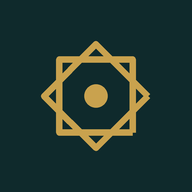
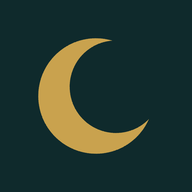
Sürüm 30: amblem hilal-ay oldu

Changed region(s): [[0.1875, 0.1875, 0.7812, 0.8125], [0.4375, 0.4375, 0.5625, 0.5625]]

diff --git a/index.html b/index.html
@@ -13,7 +13,7 @@
 <link rel="apple-touch-icon" href="simge/apple-touch-icon.png">
 <style>:root{padding-top:env(safe-area-inset-top,0px);padding-bottom:env(safe-area-inset-bottom,0px)}body{margin:0}[hidden]{display:none!important}</style>
 <title>Günün Ayeti</title>
-<!-- sürüm 29 -->
+<!-- sürüm 30 -->
 <link rel="preconnect" href="https://fonts.googleapis.com">
 <link rel="preconnect" href="https://fonts.gstatic.com" crossorigin>
 <link rel="stylesheet" href="https://fonts.googleapis.com/css2?family=Literata:ital,opsz,wght@0,7..72,400;0,7..72,600;1,7..72,400&family=Figtree:wght@400;500;600&display=swap">
@@ -305,7 +305,7 @@ const ESMALAR = [["Allah", "Bütün övgülere lâyık olan"], ["er-Rahmân", "B
 const esmaYazi = i => { const e = ESMALAR[((i % ESMALAR.length) + ESMALAR.length) % ESMALAR.length]; return e ? `${e[0]} · ${e[1]}` : ''; };
 const BASLANGIC = "2026-11-05";
 const ONIZLEME = false;
-const SAYFA_SURUM = 29;
+const SAYFA_SURUM = 30;
 /* Önbellekte eski sayfa kaldıysa: yeni sürüm varsa kendini hemen yenile (sürüm numaralı adresle, önbellek atlanır) */
 if (!ONIZLEME && SAYFA_SURUM) {
   fetch('https://matmehmed47-cmyk.github.io/gunun-ayeti/surum.txt?r=' + Date.now(), { cache: 'no-store' })

diff --git a/sw.js b/sw.js
@@ -1,5 +1,5 @@
-// Günün Ayeti — sürüm 29. Çevrimiçi: en yeni sürüm; çevrimdışı: kayıtlı kopya.
-const AD = 'ga-29';
+// Günün Ayeti — sürüm 30. Çevrimiçi: en yeni sürüm; çevrimdışı: kayıtlı kopya.
+const AD = 'ga-30';
 const DOSYALAR = ['./', 'index.html', 'manifest.webmanifest', 'simge/simge-192.png', 'simge/simge-512.png', 'simge/apple-touch-icon.png'];
 self.addEventListener('install', e => { e.waitUntil(caches.open(AD).then(c => c.addAll(DOSYALAR))); self.skipWaiting(); });
 self.addEventListener('activate', e => { e.waitUntil(caches.keys().then(k => Promise.all(k.filter(x => x !== AD).map(x => caches.delete(x))))); self.clients.claim(); });

diff --git a/kaynak/pwa_yap.py b/kaynak/pwa_yap.py
@@ -11,16 +11,18 @@ ZEMIN, ALTIN = (15, 42, 44), (201, 162, 78)
 def simge(boyut, guvenli=1.0):
     k = 4  # pürüzsüz kenar için büyük çiz, sonra küçült
     S = boyut * k
+    # hilal: büyük altın daire eksi kaydırılmış daire, maske olarak çizilir
+    m = Image.new('L', (S, S), 0)
+    d = ImageDraw.Draw(m)
+    c = S / 2
+    R = S * 0.30 * guvenli
+    d.ellipse([c - R, c - R, c + R, c + R], fill=255)
+    r2 = R * 0.80
+    ox = R * 0.38
+    d.ellipse([c + ox - r2, c - r2, c + ox + r2, c + r2], fill=0)
+    m = m.rotate(25, resample=Image.BICUBIC, center=(c, c))  # hafif yatık
     im = Image.new('RGB', (S, S), ZEMIN)
-    d = ImageDraw.Draw(im)
-    c, r = S / 2, S * 0.27 * guvenli
-    import math
-    def kare(aci):
-        pts = [(c + r * math.cos(aci + i * math.pi / 2), c + r * math.sin(aci + i * math.pi / 2)) for i in range(4)]
-        d.line(pts + [pts[0]], fill=ALTIN, width=int(S * 0.035 * guvenli), joint='curve')
-    kare(math.pi / 4); kare(0)
-    rr = S * 0.06 * guvenli
-    d.ellipse([c - rr, c - rr, c + rr, c + rr], fill=ALTIN)
+    im.paste(Image.new('RGB', (S, S), ALTIN), (0, 0), m)
     return im.resize((boyut, boyut), Image.LANCZOS)
 
 simge(192).save(kok + '/simge/simge-192.png')
